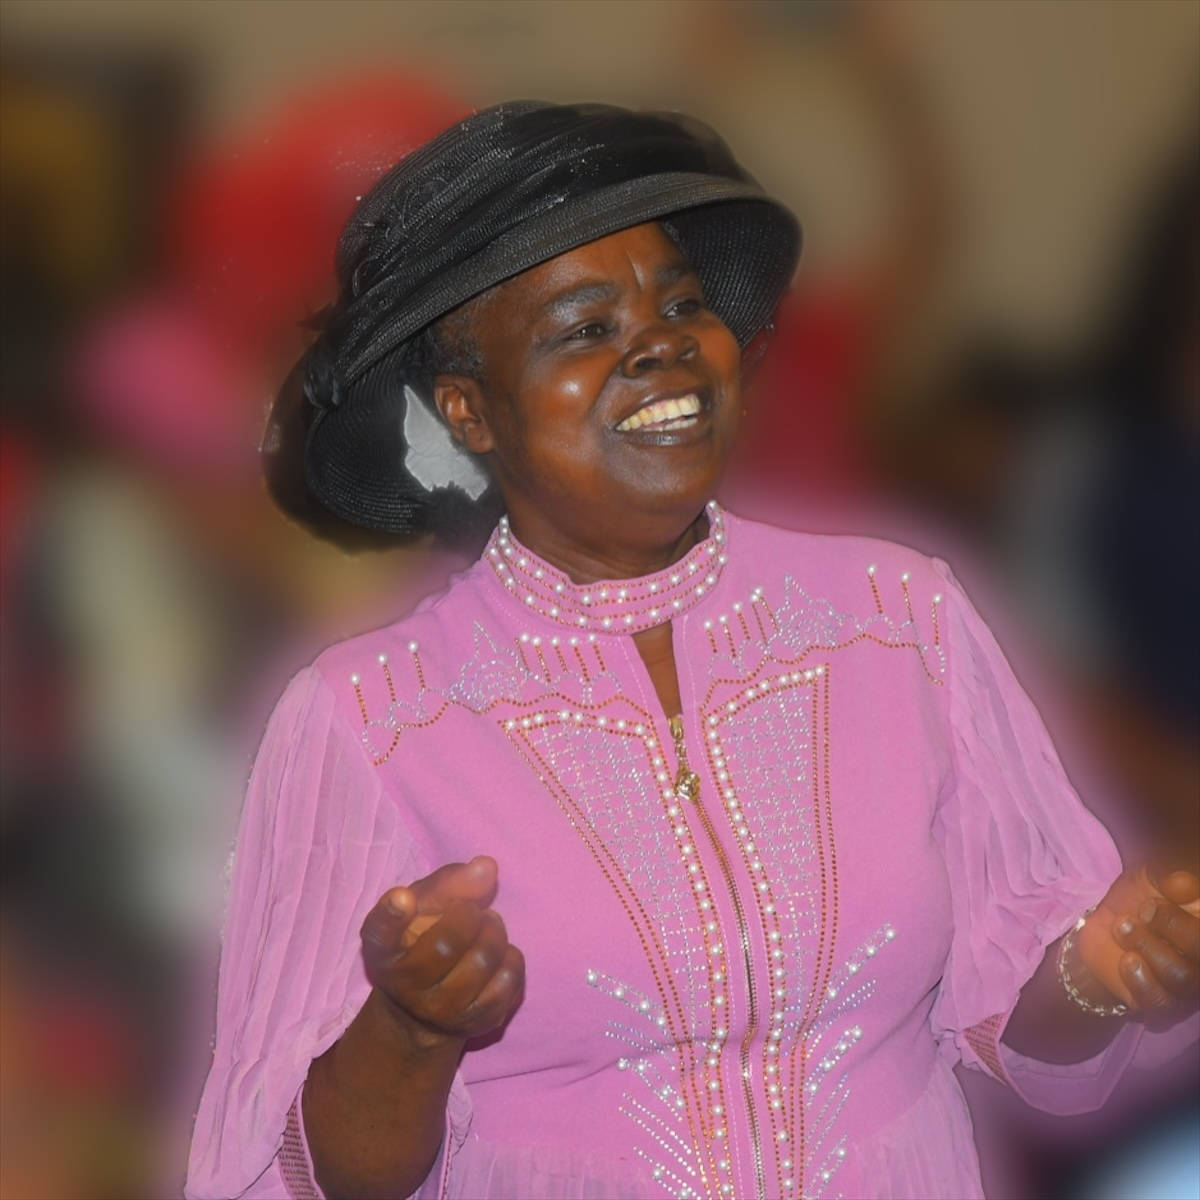
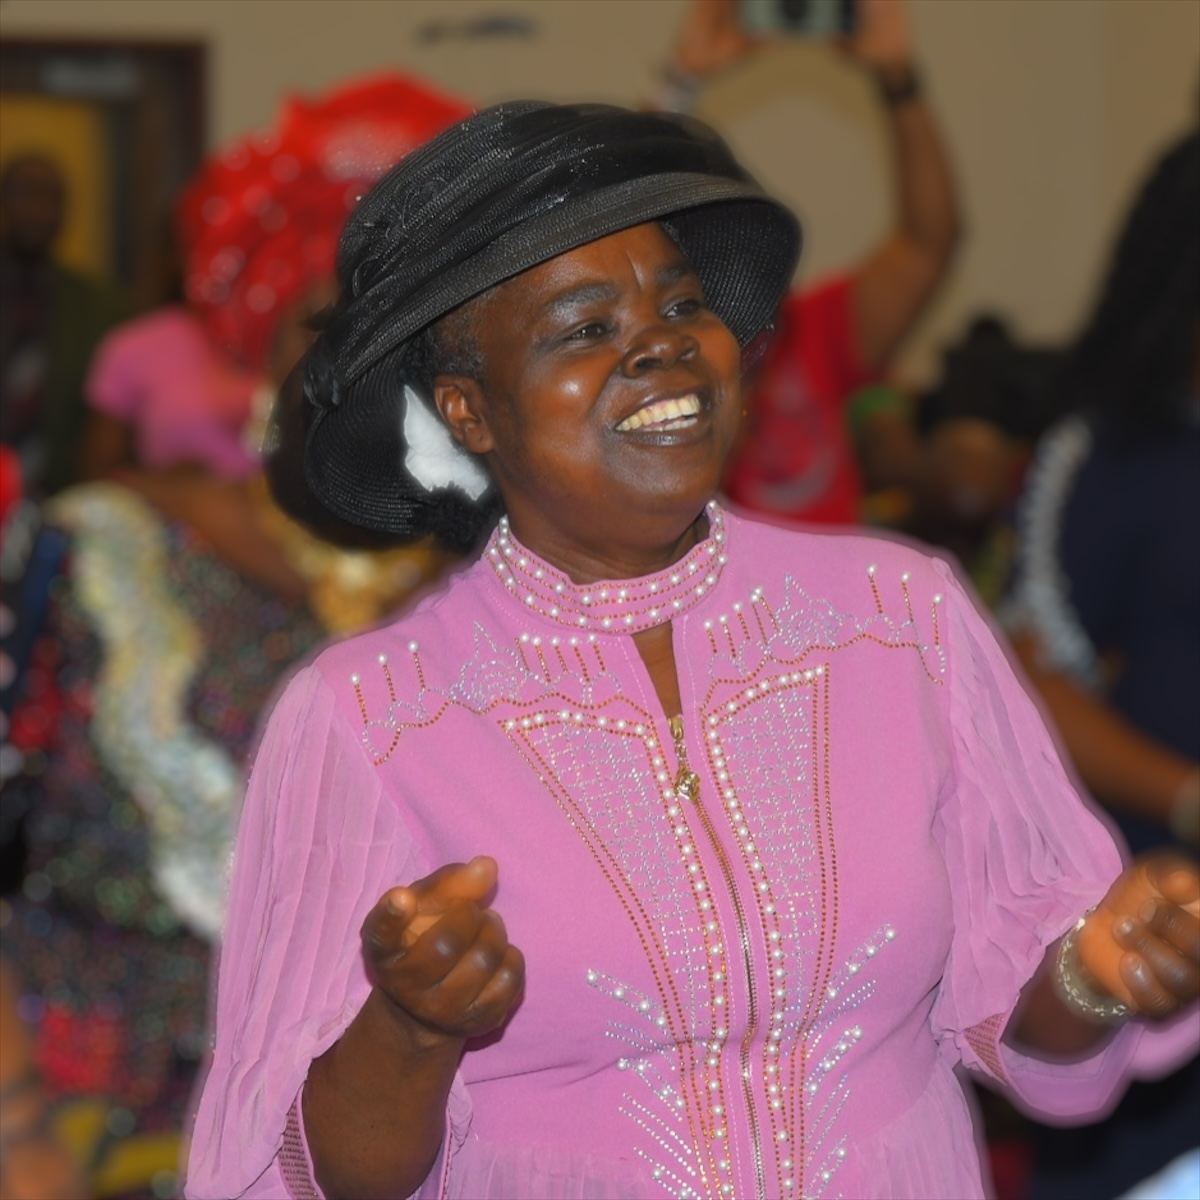
Make each group its own section, and soften the portrait blur
Three things asked for after the first pass.

The rows were a table of six cards. Each group is now a section of the
page in its own right: no box drawn around it, the name set large, ruled
off from the one before it, with the words on the left and the picture at
340px on the right. On a phone six of those is six screens of scrolling,
so they turn on their side and are swiped through one at a time, with the
next slide peeking. Same six in the DOM either way.

The background blur was a Gaussian one, which smears. A lens does not: it
throws every highlight into a disc the shape of its aperture, which is
what reads as portrait mode rather than as a blurred photograph. Swapped
to CIBokehBlur and cut the strength by about half. The radius is now read
as a percentage of the crop rather than of the source, so the same number
lands as the same softness whether it came off a 1600px snap or a 4284px
one; before this, the youth photograph was being blurred four times
harder than the others from the same argument.

No em dashes left in the copy.

diff --git a/src/app/(site)/groups/page.tsx b/src/app/(site)/groups/page.tsx
@@ -10,11 +10,15 @@ export const metadata: Metadata = {
 
 export default function GroupsPage() {
   return (
-    /* Light grey rather than the white the other pages sit on, so the white
-       cards below have something to be cards against. The colour is on the
-       section, which is the whole of <main>, so the page is grey edge to edge. */
-    <section style={{ background: "#f2f2f4" }} className="px-6 py-20 md:px-8 md:py-24">
-      <div className="mx-auto flex max-w-4xl flex-col gap-12 md:gap-16">
+    /* Light grey rather than the white the other pages sit on. The colour is
+       on the section, which is the whole of <main>, so the page is grey edge
+       to edge and the sections inside it are told apart by the space and the
+       hairline between them rather than by a box drawn around each one. */
+    <section
+      style={{ background: "#f2f2f4" }}
+      className="overflow-x-clip px-6 py-20 md:px-8 md:py-24"
+    >
+      <div className="mx-auto flex max-w-5xl flex-col gap-12 md:gap-16">
         <header className="flex flex-col gap-3">
           <div style={eyebrow}>GROUPS</div>
           <h2 style={h2} className="!text-[36px] md:!text-[46px]">
@@ -26,60 +30,79 @@ export default function GroupsPage() {
           </p>
         </header>
 
-        <ol className="m-0 flex list-none flex-col gap-4 p-0 md:gap-5">
-          {GROUPS.map((entry) => (
-            <li key={entry.id}>
-              {/* Who they are on the left, their picture on the right.
-                  One grid does both screen sizes: the photograph keeps the
-                  right on a phone at 132px, and the description drops to a
-                  second row spanning the full card rather than wrapping into
-                  a ribbon in what is left of the width beside it. From md it
-                  moves back up under the name and the photograph grows to
-                  fill both rows. */}
+        {/* Six sections down the page on a laptop. On a phone that is six
+            screens of scrolling, so the same six turn on their side and are
+            swiped through instead, one at a time. `scroll-pl-6` is what keeps
+            the first slide aligned with the heading above it rather than
+            landing flush against the edge of the screen; `-mx-6` with `px-6`
+            lets the row itself run the full width. */}
+        <ol
+          className="no-scrollbar -mx-6 m-0 flex list-none snap-x snap-mandatory scroll-pl-6 gap-4 overflow-x-auto px-6 pb-2
+                     md:mx-0 md:block md:snap-none md:space-y-0 md:overflow-visible md:p-0"
+        >
+          {GROUPS.map((entry, index) => (
+            <li
+              key={entry.id}
+              /* 86% leaves the next slide peeking, which is the only thing
+                 telling a visitor the row moves at all. */
+              className="w-[86%] shrink-0 snap-start md:w-auto"
+            >
               <article
-                className="grid grid-cols-[1fr_132px] items-start gap-x-5 gap-y-4 overflow-hidden rounded-2xl bg-white p-4 sm:grid-cols-[1fr_168px] sm:gap-x-6 sm:p-5 md:grid-cols-[1fr_minmax(0,240px)] md:gap-x-10 md:gap-y-3 md:p-7"
-                style={{ boxShadow: "0 1px 2px rgba(0,0,0,0.04), 0 8px 24px rgba(0,0,0,0.05)" }}
+                className={[
+                  // Phone: a white slide, picture above the words.
+                  "flex h-full flex-col gap-6 rounded-2xl bg-white p-6",
+                  // Laptop: no card at all. A section on the grey, ruled off
+                  // from the one before it, with the words on the left and
+                  // the picture on the right.
+                  "md:grid md:grid-cols-[1fr_minmax(0,340px)] md:items-center md:gap-16 md:rounded-none md:bg-transparent md:p-0 md:py-16",
+                  index > 0 ? "md:border-t md:border-black/10" : "",
+                ].join(" ")}
               >
-                <div className="relative col-start-2 row-start-1 aspect-square w-full overflow-hidden rounded-xl md:row-span-2 md:self-center">
+                <div className="relative aspect-square w-full overflow-hidden rounded-2xl md:col-start-2 md:row-start-1 md:rounded-[28px]">
                   <Image
                     src={entry.image}
                     alt={entry.alt}
                     fill
-                    sizes="(min-width: 768px) 240px, (min-width: 640px) 168px, 132px"
+                    sizes="(min-width: 768px) 340px, 86vw"
                     className="object-cover"
                   />
                 </div>
 
-                <div className="col-start-1 row-start-1 flex flex-col gap-2 md:self-end">
-                  <div style={eyebrow} className="!text-[11px] md:!text-[12px]">
-                    {entry.group.toUpperCase()}
-                  </div>
-                  {/* The choir is the one entry with no name of its own; the
-                      group heading above is the whole of its title, so this
-                      block is skipped rather than left standing empty. */}
-                  {"name" in entry ? (
-                    <div className="flex flex-col gap-0.5">
-                      <h3
-                        className="m-0 text-[20px] leading-tight md:text-[26px]"
-                        style={{ fontFamily: "var(--font-display)", fontWeight: 600, color: "#1d1d1f" }}
-                      >
-                        {entry.name}
-                      </h3>
-                      {"role" in entry ? (
-                        <p className="m-0 text-[13px] md:text-[14px]" style={{ color: "#7a7a7a" }}>
-                          {entry.role}
-                        </p>
-                      ) : null}
+                <div className="flex flex-col gap-4 md:col-start-1 md:row-start-1 md:gap-5">
+                  <div className="flex flex-col gap-2">
+                    <div style={eyebrow} className="!text-[11px] md:!text-[12px]">
+                      {entry.group.toUpperCase()}
                     </div>
-                  ) : null}
+                    {/* The choir is the one entry with no name of its own; the
+                        group heading above is the whole of its title, so this
+                        block is skipped rather than left standing empty. */}
+                    {"name" in entry ? (
+                      <div className="flex flex-col gap-1">
+                        <h3
+                          className="m-0 text-[26px] leading-tight md:text-[38px]"
+                          style={{
+                            fontFamily: "var(--font-display)",
+                            fontWeight: 600,
+                            color: "#1d1d1f",
+                          }}
+                        >
+                          {entry.name}
+                        </h3>
+                        {"role" in entry ? (
+                          <p className="m-0 text-[13px] md:text-[15px]" style={{ color: "#7a7a7a" }}>
+                            {entry.role}
+                          </p>
+                        ) : null}
+                      </div>
+                    ) : null}
+                  </div>
+                  <p
+                    className="m-0 max-w-lg text-[15px] leading-relaxed md:text-[17px]"
+                    style={{ color: "#4a4a4e" }}
+                  >
+                    {entry.description}
+                  </p>
                 </div>
-
-                <p
-                  className="col-span-2 col-start-1 row-start-2 m-0 text-[15px] leading-relaxed md:col-span-1 md:text-[16px] md:self-start"
-                  style={{ color: "#4a4a4e" }}
-                >
-                  {entry.description}
-                </p>
               </article>
             </li>
           ))}

diff --git a/src/lib/site.ts b/src/lib/site.ts
@@ -261,7 +261,7 @@ export const GROUPS = [
     image: "/groups/choir.jpg",
     alt: "The choir gathered outside the church in blue",
     description:
-      "The choir leads the singing on a Sunday morning, and at the conventions and conferences the church takes part in through the year. If you sing or play, say so after a service — there is room.",
+      "The choir leads the singing on a Sunday morning, and at the conventions and conferences the church takes part in through the year. If you sing or play, say so after a service, and there is room.",
   },
   {
     id: "men",
@@ -297,6 +297,6 @@ export const GROUPS = [
     image: "/groups/ms-obadaki.jpg",
     alt: "Ms. Obadaki in a grey blazer at the Gofamint Canada convention",
     description:
-      "The children are taught on a Sunday in a way that is theirs, rather than a shortened version of what the adults are given. Bring them — they are expected, not merely tolerated.",
+      "The children are taught on a Sunday in a way that is theirs, rather than a shortened version of what the adults are given. Bring them. They are expected, not merely tolerated.",
   },
 ] as const;
